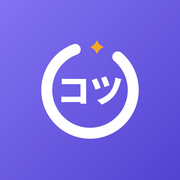
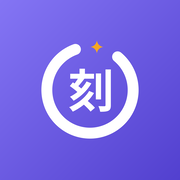
Update website

Changed region(s): [[0.3333, 0.3611, 0.6944, 0.6389], [0.5, 0.2222, 0.5833, 0.3056], [0.6111, 0.2778, 0.6389, 0.3056]]

diff --git a/index.html b/index.html
@@ -3,13 +3,45 @@
 <head>
   <meta charset="utf-8">
   <meta name="viewport" content="width=device-width, initial-scale=1">
-  <title>Kotsu – goal tracker for Android</title>
-  <meta name="description" content="Kotsu is a free goal tracker for Android: daily, weekly, monthly and long-term goals, timers, streaks and badges. No account, and your data stays on your phone.">
-  <meta property="og:title" content="Kotsu – goal tracker for Android">
-  <meta property="og:description" content="Daily, weekly, monthly and long-term goals, timers, streaks and badges. Free, no account.">
+  <title>Kizamu – Free Habit &amp; Goal Tracker for Android, No Account</title>
+  <meta name="description" content="Kizamu is a free habit and goal tracker for Android. Daily, weekly, monthly and long-term goals, timers, streaks, XP and badges. Works offline, no account, and your data stays on your phone.">
+  <link rel="canonical" href="https://kizamu.nointdev.xyz/">
+  <meta name="theme-color" content="#6C5CE7">
   <meta property="og:type" content="website">
-  <meta property="og:url" content="https://nointapostle.github.io/kotsu/">
-  <meta property="og:image" content="https://nointapostle.github.io/kotsu/icon.png">
+  <meta property="og:site_name" content="Kizamu">
+  <meta property="og:url" content="https://kizamu.nointdev.xyz/">
+  <meta property="og:title" content="Kizamu – Free Habit &amp; Goal Tracker for Android">
+  <meta property="og:description" content="Daily, weekly, monthly and long-term goals, timers, streaks and badges. Free, works offline, no account.">
+  <meta property="og:image" content="https://kizamu.nointdev.xyz/og-image.png">
+  <meta property="og:image:width" content="1200">
+  <meta property="og:image:height" content="630">
+  <meta property="og:image:alt" content="Kizamu, a habit and goal tracker for Android">
+  <meta name="twitter:card" content="summary_large_image">
+  <script type="application/ld+json">
+  {
+    "@context": "https://schema.org",
+    "@type": "MobileApplication",
+    "name": "Kizamu",
+    "alternateName": ["刻む", "Kotsu"],
+    "description": "A free habit and goal tracker for Android with daily, weekly, monthly and long-term goals, timers, streaks, XP and badges. No account; data stays on the phone.",
+    "url": "https://kizamu.nointdev.xyz/",
+    "image": "https://kizamu.nointdev.xyz/og-image.png",
+    "operatingSystem": "Android 7.0 or newer",
+    "applicationCategory": "LifestyleApplication",
+    "downloadUrl": "https://github.com/NointApostle/kizamu/releases/latest/download/kizamu.apk",
+    "offers": { "@type": "Offer", "price": "0", "priceCurrency": "USD" },
+    "featureList": [
+      "Daily, weekly, monthly and long-term goals",
+      "Amount targets, checklists and habits to avoid",
+      "Timers with pomodoro mode",
+      "Streaks, streak freezes, XP, levels and badges",
+      "Home screen widgets and app icon shortcuts",
+      "A weekly review",
+      "Goal templates and CSV export",
+      "Backups without an account"
+    ]
+  }
+  </script>
   <link rel="icon" type="image/png" href="favicon.png">
   <link rel="apple-touch-icon" href="apple-touch-icon.png">
   <link rel="preconnect" href="https://fonts.googleapis.com">
@@ -118,6 +150,11 @@
     .steps span { color: var(--muted); font-size: 15px; }
     .note { color: var(--muted); font-size: 15px; }
 
+    .faq { display: grid; gap: 10px; max-width: 46em; }
+    .faq details { background: var(--card); border: 1px solid var(--border); border-radius: 14px; padding: 14px 18px; }
+    .faq summary { cursor: pointer; font-weight: 600; }
+    .faq p { margin: 8px 0 0; color: var(--muted); font-size: 16px; }
+
     .split { display: grid; grid-template-columns: 1fr 1fr; gap: 16px; }
     .name-card .big { font-size: 44px; line-height: 1.1; margin: 0 0 8px; }
 
@@ -145,9 +182,9 @@
 <body>
   <header>
     <div class="wrap">
-      <a class="brand" href="#">
+      <a class="brand" href="./">
         <img src="icon.png" alt="" width="36" height="36">
-        Kotsu <span class="ja">コツ</span>
+        Kizamu <span class="ja">刻む</span>
       </a>
       <a class="header-link" href="#download">Download</a>
     </div>
@@ -158,16 +195,16 @@
       <div class="wrap">
         <div>
           <span class="tagline"><span class="ja">コツコツ</span> · little by little</span>
-          <h1>Track your goals, a little every day</h1>
-          <p class="lead">Set daily, weekly, monthly and long-term goals, time your practice, and keep your streak going. Free, no account, and everything stays on your phone.</p>
-          <a class="download" id="download-button" href="https://github.com/NointApostle/kotsu/releases/latest/download/kotsu.apk">
+          <h1>Build habits and track your goals, a little every day</h1>
+          <p class="lead">Kizamu is a habit tracker and goal tracker for Android. Set daily, weekly, monthly and long-term goals, time your practice, and keep your streak going. Free, works offline, no account, and everything stays on your phone.</p>
+          <a class="download" id="download-button" href="https://github.com/NointApostle/kizamu/releases/latest/download/kizamu.apk">
             <svg viewBox="0 0 24 24" fill="none" stroke="currentColor" stroke-width="2.2" stroke-linecap="round" stroke-linejoin="round" aria-hidden="true"><path d="M12 4v11m0 0-4.5-4.5M12 15l4.5-4.5M5 20h14"/></svg>
             Download for Android
           </a>
           <div class="meta" id="release-meta">Free APK · Android 7.0 or newer</div>
         </div>
 
-        <div class="phone" role="img" aria-label="The Today screen in Kotsu, with four goals, two of them done">
+        <div class="phone" role="img" aria-label="The Today screen in Kizamu, with four goals, two of them done">
           <div class="phone-top">
             <span class="phone-title">Today</span>
             <span class="phone-date">Sat, Oct 3</span>
@@ -204,7 +241,7 @@
     <section id="features">
       <div class="wrap">
         <h2>What it does</h2>
-        <p class="section-lead">Kotsu keeps track of the small things you want to do regularly, and makes it a bit of a game.</p>
+        <p class="section-lead">Kizamu keeps track of the habits and small goals you want to keep up, and makes it a bit of a game.</p>
         <div class="features">
           <div class="feature">
             <h3>Daily, weekly, monthly and long-term goals</h3>
@@ -238,6 +275,14 @@
             <h3>Vacation mode and skipping</h3>
             <p>Pause everything until a date, pause one goal, or skip a goal for the day when you're sick. None of it counts against your streak.</p>
           </div>
+          <div class="feature">
+            <h3>A weekly review</h3>
+            <p>See how the week went next to the week before, which goals went well and which ones keep slipping. Get it as a notification every Sunday if you like.</p>
+          </div>
+          <div class="feature">
+            <h3>Templates, shortcuts and spreadsheets</h3>
+            <p>Start a goal from a ready-made one, check things off or start a timer by long-pressing the app icon, and export your history as a CSV file.</p>
+          </div>
         </div>
       </div>
     </section>
@@ -245,13 +290,45 @@
     <section id="download">
       <div class="wrap">
         <h2>Install it</h2>
-        <p class="section-lead">Kotsu isn't on the Play Store yet, so you install it from the APK file.</p>
+        <p class="section-lead">Kizamu isn't on the Play Store yet, so you install it from the APK file.</p>
         <ol class="steps">
-          <li><b>Download the APK</b><span>Tap <a href="https://github.com/NointApostle/kotsu/releases/latest/download/kotsu.apk">Download for Android</a> on your phone.</span></li>
+          <li><b>Download the APK</b><span>Tap <a href="https://github.com/NointApostle/kizamu/releases/latest/download/kizamu.apk">Download for Android</a> on your phone.</span></li>
           <li><b>Open the file</b><span>Android asks once to allow installing apps from your browser or file manager. Allow it, then tap Install.</span></li>
-          <li><b>Open Kotsu</b><span>Add your first goal, and add a widget from your home screen if you like.</span></li>
+          <li><b>Open Kizamu</b><span>Add your first goal, and add a widget from your home screen if you like.</span></li>
         </ol>
-        <p class="note">To update, download the new version and install it over the old one. Your goals and progress stay. Older versions are on the <a href="https://github.com/NointApostle/kotsu/releases">releases page</a>.</p>
+        <p class="note">To update, download the new version and install it over the old one. Your goals and progress stay. Older versions are on the <a href="https://github.com/NointApostle/kizamu/releases">releases page</a>.</p>
+      </div>
+    </section>
+
+    <section id="faq">
+      <div class="wrap">
+        <h2>Questions</h2>
+        <div class="faq">
+          <details>
+            <summary>Is Kizamu free?</summary>
+            <p>Yes. There are no ads, no subscription and nothing to buy. The coins in the app are earned by checking off goals.</p>
+          </details>
+          <details>
+            <summary>Do I need an account or an internet connection?</summary>
+            <p>No. Kizamu works offline and has no account or server. Your goals and history are saved only on your phone.</p>
+          </details>
+          <details>
+            <summary>Is Kizamu on the Google Play Store?</summary>
+            <p>Not yet. You install it from the APK file on this page. Android asks once for permission to install apps from your browser or file manager.</p>
+          </details>
+          <details>
+            <summary>Can I move my goals to a new phone?</summary>
+            <p>Yes. Export a backup file from Settings, copy it to the new phone, and restore it there. Kizamu can also save a backup to a folder on your phone every day.</p>
+          </details>
+          <details>
+            <summary>Is there an iPhone version?</summary>
+            <p>No, Kizamu is only for Android for now.</p>
+          </details>
+          <details>
+            <summary>Wasn't this app called Kotsu?</summary>
+            <p>Yes. Kizamu was called Kotsu (コツ) until it was renamed, since other apps already used that name. It's the same app: install Kizamu over Kotsu and your goals and progress stay.</p>
+          </details>
+        </div>
       </div>
     </section>
 
@@ -259,11 +336,11 @@
       <div class="wrap split">
         <div class="card">
           <h3>Your data stays on your phone</h3>
-          <p>There's no account and no server. Your goals and history are saved on your phone, and you can export a backup file or have Kotsu save one to a folder every day.</p>
+          <p>There's no account and no server. Your goals and history are saved on your phone, and you can export a backup file or have Kizamu save one to a folder every day.</p>
         </div>
         <div class="card name-card">
-          <p class="big ja">コツコツ</p>
-          <p><b>Kotsu</b> (コツ) is Japanese for "the knack". <b>Kotsukotsu</b> means doing something steadily, little by little.</p>
+          <p class="big ja">刻む</p>
+          <p><b>Kizamu</b> (刻む) is Japanese for "to carve" or "to mark off", the way a clock marks time one tick at a time. Each check-off is one more notch. The tagline, <b>kotsukotsu</b> (コツコツ), is the sound of a chisel, and means doing something steadily, little by little.</p>
         </div>
       </div>
     </section>
@@ -271,18 +348,22 @@
 
   <footer>
     <div class="wrap">
-      <span>Kotsu <span class="ja">コツ</span></span>
-      <a href="https://github.com/NointApostle/kotsu/releases">All releases</a>
+      <span>Kizamu <span class="ja">刻む</span></span>
+      <nav style="display: flex; gap: 20px; flex-wrap: wrap;">
+        <a href="#features">Features</a>
+        <a href="#faq">Questions</a>
+        <a href="https://github.com/NointApostle/kizamu/releases">All releases</a>
+      </nav>
     </div>
   </footer>
 
   <script>
     // Show the latest version and file size under the download button.
     // The page works without it.
-    fetch('https://api.github.com/repos/NointApostle/kotsu/releases/latest')
+    fetch('https://api.github.com/repos/NointApostle/kizamu/releases/latest')
       .then((response) => (response.ok ? response.json() : null))
       .then((release) => {
-        const apk = release && release.assets.find((asset) => asset.name === 'kotsu.apk');
+        const apk = release && release.assets.find((asset) => asset.name === 'kizamu.apk');
         if (!apk) return;
         const size = Math.round(apk.size / 1048576);
         document.getElementById('release-meta').textContent =
